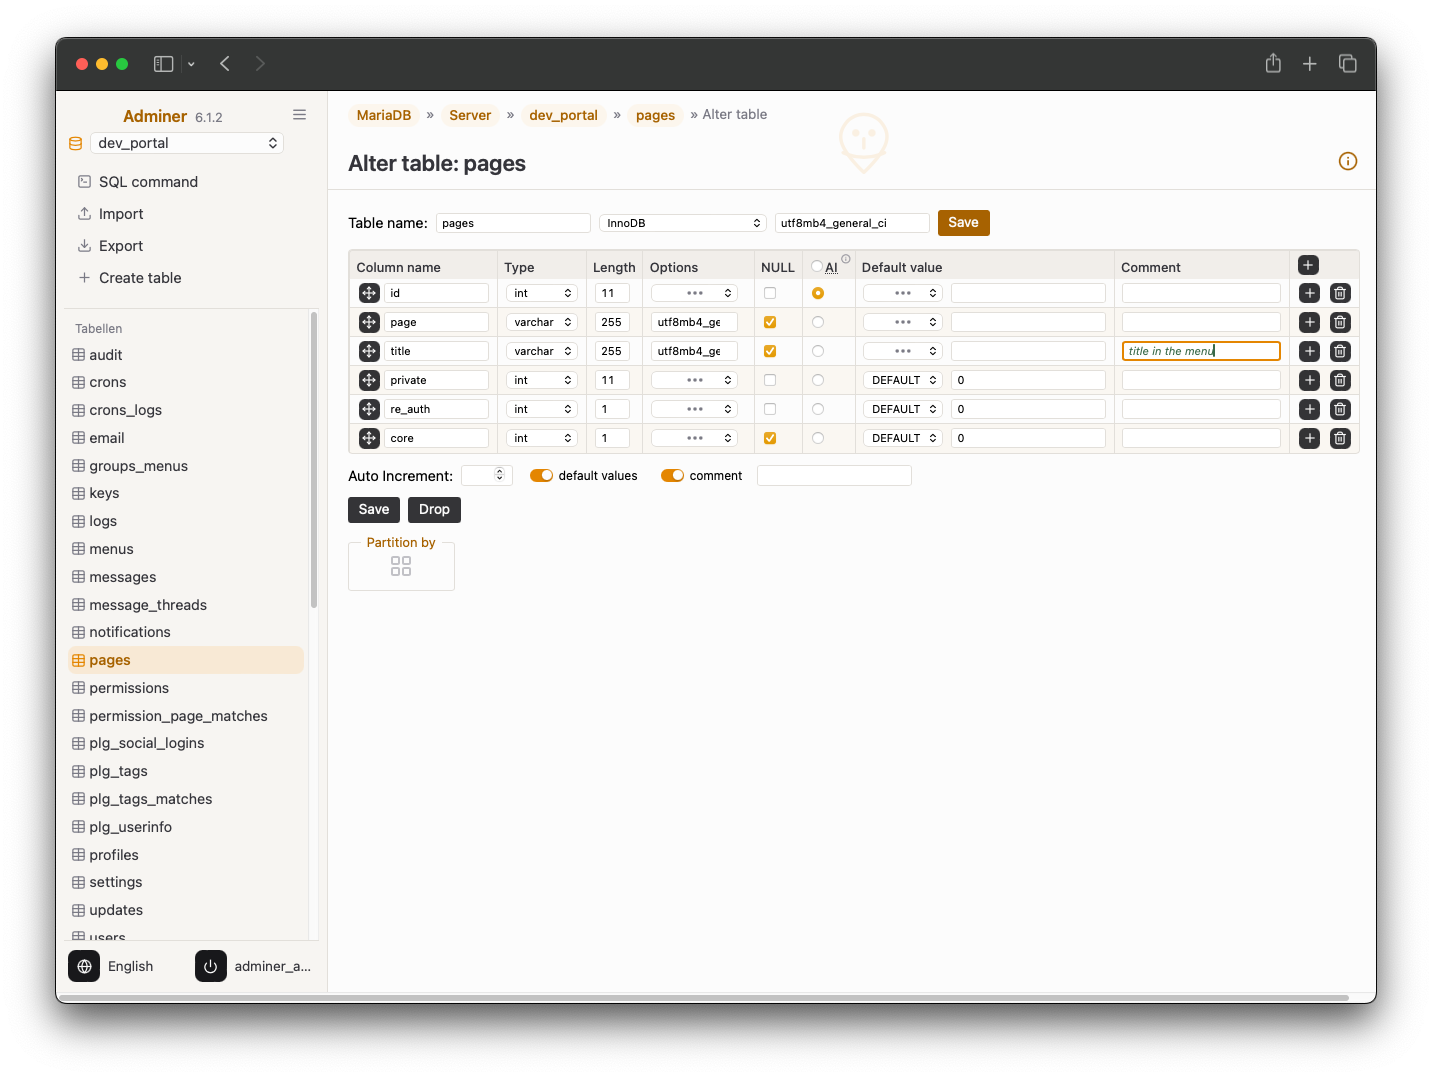
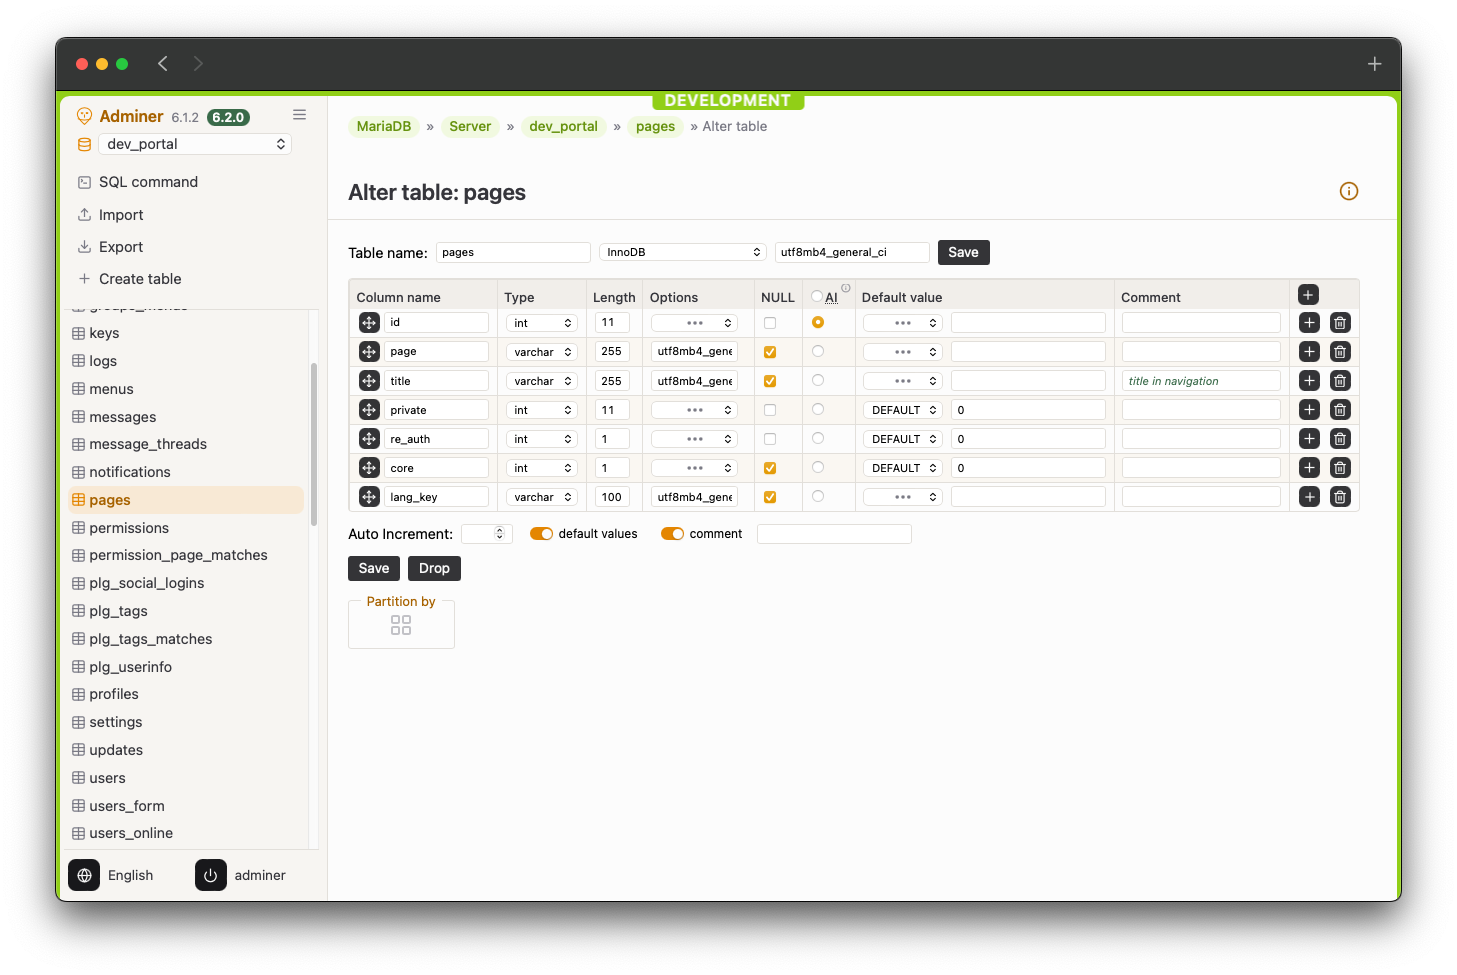
Prepare 1.0.0 release
- Rewrite project page intro and meta tags, polish README
- Rename select screenshot to select-data.png
- Remove obsolete SVG screenshot placeholders
- Fix broken download link on the project page

Changed region(s): [[0.0307, 0.0308, 0.9832, 0.9538]]

diff --git a/index.html b/index.html
@@ -1,23 +1,22 @@
 <!DOCTYPE html>
+<html lang="en">
 <head>
+    <meta charset="UTF-8">
+    <meta name="viewport" content="width=device-width, initial-scale=1.0">
     <title>Tyto Alba — Theme for Adminer</title>
     <link rel="icon" type="image/svg+xml" href="favicon.svg">
-    <meta name="description" content="">
-    <meta name="keywords" content="Tyto Alba, Adminer, Adminer, minimalist theme, clean theme, database management">
-    <meta name="author" content="Benedikt Sattler">
+    <meta name="description" content="A quiet, warm-toned theme for Adminer, named after the barn owl: off-white and warm grey with a tawny orange accent.">
+    <meta name="keywords" content="Tyto Alba, Adminer, Adminer theme, minimalist theme, clean theme, database management">
+    <meta name="author" content="Benedikt Nierula">
     <meta property="og:title" content="Tyto Alba — Theme for Adminer">
-    <meta property="og:description" content="">
-    <meta property="og:image" content="https://raw.githubusercontent.com/benediktsattler/tytoalba/main/screenshots/select.png">
+    <meta property="og:description" content="A quiet, warm-toned theme for Adminer, named after the barn owl: off-white and warm grey with a tawny orange accent.">
+    <meta property="og:image" content="https://raw.githubusercontent.com/benediktsattler/tytoalba/main/screenshots/select-data.png">
     <meta property="og:url" content="https://benediktsattler.github.io/tytoalba/">
     <meta name="twitter:title" content="Tyto Alba — Theme for Adminer">
-    <meta name="twitter:description" content="">
-    <meta name="twitter:image" content="https://raw.githubusercontent.com/benediktsattler/tytoalba/main/screenshots/select.png">
+    <meta name="twitter:description" content="A quiet, warm-toned theme for Adminer, named after the barn owl: off-white and warm grey with a tawny orange accent.">
+    <meta name="twitter:image" content="https://raw.githubusercontent.com/benediktsattler/tytoalba/main/screenshots/select-data.png">
     <meta name="robots" content="index, follow">
-    <meta name="viewport" content="width=device-width, initial-scale=1.0">
-    <meta charset="UTF-8">
     <style>input,pre{padding:.5em;background-color:var(--lesslight)}code,input,pre{background-color:var(--lesslight)}:root{color-scheme:light dark;--light:#fff;--lesslight:#efefef;--dark:#404040;--moredark:#000;--link:royalblue;border-top:5px solid var(--dark);line-height:1.5em;font-family:system-ui,sans-serif;font-size:16px}*{box-sizing:border-box;color:var(--dark)}h1{line-height:1em}button,input{font-size:1em}input{border:1px solid var(--dark);border-radius:.25em}pre{margin:.5em 0;overflow:auto}body{background-color:var(--light);margin:0 auto;max-width:800px;padding:0 20px 20px}.button,.home,button,input[type=submit]{background-color:var(--dark);color:var(--light);text-decoration:none}a{outline:0}a:hover{text-decoration-color:var(--link)}img{max-width:100%;height:auto}.button,button,input[type=submit]{display:inline-block;text-align:center;padding:.5em;border-radius:.25em;border:none;cursor:pointer}.button:hover,button:hover,input[type=submit]:hover{color:var(--lesslight);background-color:var(--moredark)}.button+.button,button+button,input[type=submit]+input[type=submit]{margin-left:1em}.center{display:block;margin-left:auto;margin-right:auto;text-align:center}.bordered{border:3px solid}.home{display:inline-block;margin-top:20px;padding:5px 10px;font-weight:700}@media (min-width:600px){ol.twocol{column-count:2}.row{display:flex;flex-direction:row;padding:0;width:100%}.row>*{display:block;flex:1 1 auto;max-width:100%;width:100%}.row>:not(:last-child){margin-right:10px}}@media (prefers-color-scheme:dark){:root{--light:#222;--lesslight:#333;--dark:#eee;--moredark:#fefefe}:focus{outline:var(--light);box-shadow:0 0 0 .25em var(--link)}}@media print{.home{display:none}}</style>
-    <meta name="viewport" content="width=device-width, initial-scale=1.0">
-    <meta charset="UTF-8">
 </head>
 <body>
 
@@ -25,20 +24,19 @@
 
     <h1>"Tyto Alba" for Adminer</h1>
 
-    <p>A Clean, Minimalist Theme for Adminer we call it <em>Simple Theme</em>, we created a modern design for <em>Adminer</em> that prioritizes simplicity and functionality.</p>
+    <p>A clean, straightforward theme for <em>Adminer</em>, named after the barn owl: warm off-white and warm grey, with a few tawny orange accents.</p>
 
-    <p>A clean, straightforward theme for Adminer, named after the barn owl: warm off-white and warm grey, with a few light tawny orange accents.</p>
-
-    <img src="screenshots/select.png" alt="Tyto Alba theme for Adminer — select data">
+    <img src="screenshots/select-data.png" alt="Tyto Alba theme for Adminer — select data">
 
     <h2 id="start">Getting Started</h2>
 
-    <p>First, ensure you have <em>Adminer</em> installed. If not, get a copy <a href="https://www.adminer.org/" target="_blank" >here</a>. & Download the <em>adminer.css</em> file for Tyto Alba [ <a href="https://raw
-        .githubusercontent.com/benediktsattler/tytoalba/main/adminer.css" download="adminer.css">Download Tyto Alba</a> ]. or use the following <code>curl</code> command:</p>
+    <p>First, ensure you have <em>Adminer</em> installed. If not, get a copy <a href="https://www.adminer.org/" target="_blank">here</a>. Then download the <em>adminer.css</em> file for Tyto Alba [ <a href="https://raw.githubusercontent.com/benediktsattler/tytoalba/main/adminer.css" download="adminer.css">Download Tyto Alba</a> ] or use the following <code>curl</code> command:</p>
 
         <pre><code>curl -O https://raw.githubusercontent.com/benediktsattler/tytoalba/main/adminer.css</code></pre>
 
     <p>Then put the file <em>adminer.css</em> alongside <em>adminer.php</em> or copy it to the same directory that contains Adminer on your web server.</p>
+
+    <p>Optional: the <a href="https://github.com/benediktsattler/tytoalba#environment-marker-optional-plugin">environment marker plugin</a> frames production, staging and backup connections in their own color, so you always know where you are.</p>
 
     <h2 id="github">GitHub</h2>
     <p>You can find <a href="https://github.com/benediktsattler/tytoalba">Tyto Alba on GitHub</a>.</p>

diff --git a/adminer.css b/adminer.css
@@ -3,7 +3,7 @@
  * https://github.com/benediktsattler/tytoalba
  *
  * Version   1.0.0  (2026-10-26)
- * Tested    Adminer 5.4.2, 6.1.2
+ * Tested    Adminer 5.4.2, 6.1.2, 6.2.0
  * Author    Benedikt Nierula
  * License   MIT
  *
@@ -19,7 +19,6 @@
  *
  * GENERATED from src/*.css by build.sh — edit the sources, not this file.
  */
-
 :root {
    color-scheme: light;
 
@@ -1188,11 +1187,16 @@ select:has(option:empty:checked) {
 }
 
 #menu #tables::before {
-    content: "Tabellen";
+    content: "Tables";
     display: block;
     font-size: .75rem;
     color: var(--sb-muted);
     padding: 0 .6em .4em;
+}
+
+/* Adminer sets <html lang> to the UI language */
+:lang(de) #menu #tables::before {
+    content: "Tabellen";
 }
 
 #menu #tables li {
@@ -1298,7 +1302,7 @@ select:has(option:empty:checked) {
 
 #logins a:hover,
 #logins a:focus {
-    /* full name on an opaque sidebar-coloured pill */
+    /* full name on an opaque sidebar-colored pill */
     position: relative;
     z-index: 1;
     width: max-content;
@@ -2051,24 +2055,23 @@ body.env {
 }
 
 body.env-prod {
-    --env-h: 0;
+    --env-h: 10;
 }
 
 body.env-staging {
-    --env-h: 275;
+    --env-h: 290;
 }
 
 body.env-dev {
-    --env-h: 145;
+    --env-h: 80;
 }
 
 body.env-backup {
-    --env-h: 210;
+    --env-h: 200;
 }
 
-/* frame along the top, left and right edge of the viewport: an inset box
-   with rounded top corners whose spread shadow fills the space to the edges,
-   so the inner corners are round */
+/* frame on top, left and right: the spread shadow of an inset box with
+   rounded top corners fills up to the edges, so the inner corners are round */
 body.env::before {
     content: "";
     position: fixed;

diff --git a/src/80-environments.css b/src/80-environments.css
@@ -10,24 +10,23 @@ body.env {
 }
 
 body.env-prod {
-    --env-h: 0;
+    --env-h: 10;
 }
 
 body.env-staging {
-    --env-h: 275;
+    --env-h: 290;
 }
 
 body.env-dev {
-    --env-h: 145;
+    --env-h: 80;
 }
 
 body.env-backup {
-    --env-h: 210;
+    --env-h: 200;
 }
 
-/* frame along the top, left and right edge of the viewport: an inset box
-   with rounded top corners whose spread shadow fills the space to the edges,
-   so the inner corners are round */
+/* frame on top, left and right: the spread shadow of an inset box with
+   rounded top corners fills up to the edges, so the inner corners are round */
 body.env::before {
     content: "";
     position: fixed;

diff --git a/src/50-sidebar.css b/src/50-sidebar.css
@@ -197,11 +197,16 @@ select:has(option:empty:checked) {
 }
 
 #menu #tables::before {
-    content: "Tabellen";
+    content: "Tables";
     display: block;
     font-size: .75rem;
     color: var(--sb-muted);
     padding: 0 .6em .4em;
+}
+
+/* Adminer sets <html lang> to the UI language */
+:lang(de) #menu #tables::before {
+    content: "Tabellen";
 }
 
 #menu #tables li {
@@ -307,7 +312,7 @@ select:has(option:empty:checked) {
 
 #logins a:hover,
 #logins a:focus {
-    /* full name on an opaque sidebar-coloured pill */
+    /* full name on an opaque sidebar-colored pill */
     position: relative;
     z-index: 1;
     width: max-content;

diff --git a/src/00-header.css b/src/00-header.css
@@ -3,7 +3,7 @@
  * https://github.com/benediktsattler/tytoalba
  *
  * Version   @VERSION@  (@DATE@)
- * Tested    Adminer 5.4.2, 6.1.2
+ * Tested    Adminer 5.4.2, 6.1.2, 6.2.0
  * Author    Benedikt Nierula
  * License   MIT
  *
@@ -19,4 +19,3 @@
  *
  * GENERATED from src/*.css by build.sh — edit the sources, not this file.
  */
-

diff --git a/plugins/tytoalba-env.php b/plugins/tytoalba-env.php
@@ -1,48 +1,52 @@
 <?php
 
 /** Mark the environment (production, staging, backup, …) of the current connection for the Tyto Alba theme
-*
-* Adds `env env-<name>` to <body class>; the theme turns that into a colored
-* strip with a label at the top of the screen and tinted breadcrumbs. Built-in
-* names: prod, staging, dev, backup. Any other name works with a custom hue.
-* Labels may contain {db}, {user} and {server}; with no database selected,
-* a trailing separator before {db} is dropped ("Backup · {db}" → "Backup").
-*
-* Rules are matched against "user@server/db" in order, the first match wins.
-* `*` and `?` are wildcards; a pattern without "@" only matches the server,
-* one without "/" matches every database. Adminer's default server ("") is
-* matched as "localhost".
-*
-* new AdminerTytoAlbaEnv(array(
-*     '*@db.example.com'      => 'prod',
-*     'backend@localhost'     => array('backup', 'Backup · {db}'),
-*     '*@localhost'           => 'backup',
-*     '*@10.0.0.5/shop_test'  => array('qa', 'QA', 280), // name, label, hue 0–360
-* ));
-*
-* @link https://github.com/benediktsattler/tytoalba
-* @author Benedikt Sattler
-* @license https://opensource.org/licenses/MIT MIT License
-*/
-class AdminerTytoAlbaEnv extends Adminer\Plugin {
+ *
+ * Adds `env env-<name>` to <body class>; the theme turns that into a colored
+ * strip with a label at the top of the screen and tinted breadcrumbs. Built-in
+ * names: prod, staging, dev, backup. Any other name works with a custom hue.
+ * Labels may contain {db}, {user} and {server}; with no database selected,
+ * a trailing separator before {db} is dropped ("Backup · {db}" → "Backup").
+ *
+ * Rules are matched against "user@server/db" in order, the first match wins.
+ * `*` and `?` are wildcards; a pattern without "@" only matches the server,
+ * one without "/" matches every database. Adminer's default server ("") is
+ * matched as "localhost".
+ *
+ * new AdminerTytoAlbaEnv(array(
+ *     '*@db.example.com'      => 'prod',
+ *     'backend@localhost'     => array('backup', 'Backup · {db}'),
+ *     '*@localhost'           => 'backup',
+ *     '*@10.0.0.5/shop_test'  => array('qa', 'QA', 280), // name, label, hue 0–360
+ * ));
+ *
+ * @link https://github.com/benediktsattler/tytoalba
+ * @author Benedikt Nierula
+ * @license https://opensource.org/licenses/MIT MIT License
+ */
+class AdminerTytoAlbaEnv extends Adminer\Plugin
+{
 	/** @var array<string, string|array{0: string, 1?: string, 2?: int}> */ private $rules;
 	/** @var array{0: string, 1?: string, 2?: int}|false|null */ private $match;
 
 	/**
-	* @param array<string, string|array> $rules pattern => name or array(name, label, hue)
-	*/
-	function __construct(array $rules = array()) {
+	 * @param array<string, string|array> $rules pattern => name or array(name, label, hue)
+	 */
+	function __construct(array $rules = array())
+	{
 		$this->rules = $rules;
 	}
 
-	function bodyClass() {
+	function bodyClass()
+	{
 		$match = $this->match();
 		if ($match) {
 			echo " env env-" . $match[0];
 		}
 	}
 
-	function head($dark = null) {
+	function head($dark = null)
+	{
 		$match = $this->match();
 		if ($match && (isset($match[1]) || isset($match[2]))) {
 			$css = "";
@@ -66,9 +70,10 @@ class AdminerTytoAlbaEnv extends Adminer\Plugin {
 	}
 
 	/** First rule matching the current connection, false if none
-	* @return array{0: string, 1?: string, 2?: int}|false
-	*/
-	private function match() {
+	 * @return array{0: string, 1?: string, 2?: int}|false
+	 */
+	private function match()
+	{
 		if ($this->match === null) {
 			$this->match = false;
 			if (isset($_GET["username"])) { // logged in; the login form has no connection yet
